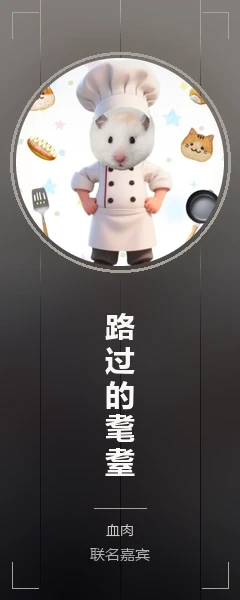
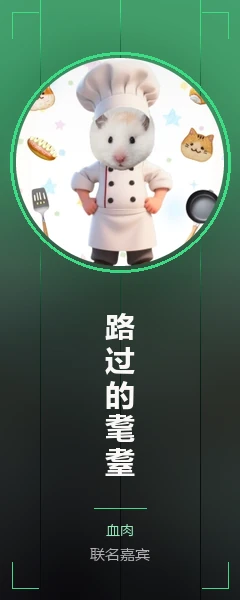
feat(idle): 路过的耄耋按「安卓佬」重做技能组与档案
外号比本名响：B 站老观众管他叫安卓佬，主题色、头像 emoji、技能与简介都跟着换。

- 主色 #a9a29a 灰 → 安卓绿 #3ddc84，emoji 🚶 → 🤖；立绘名片重出（绿环 + 绿色调）
- 7 槽技能全部换成维修梗，数值与原来一一对应（平衡不变）：
  拐杖敲→一键清后台（降攻）、挡在路口→移动电源（护垒）、
  让让，路过→推送更新包（全队屏障）、我什么都没看见→强制更新（降攻 + 虚弱）、
  老骨头→刷机保平安（全队防）、散散步→系统重装（全队盾 + 反击）、耄耋之年→永不断电
- 档案写明「安卓佬」这个称呼与他的维修哲学：能刷机就别修，能重启就别拆
- 素材脚本 CAST 配色同步；DESIGN 角色表 / README 同步

diff --git a/idle/src/core/creators.js b/idle/src/core/creators.js
@@ -132,9 +132,9 @@ export const CREATORS = [
     base: { CON: 42, ATK: 27, DEF: 41 }, scale: { CON: 1.8, ATK: 1.3, DEF: 1.95 }, sub: { ...SUB }, subScale: { ...SUB_SCALE },
     portrait: portraitOf('maodie'), card: cardOf('maodie'),
     creator: {
-      uid: '1475217387', url: 'https://space.bilibili.com/1475217387', color: '#a9a29a', tag: CREATOR_TAG, emoji: '🚶',
-      bio: '说是路过，其实每场团战都站在最前面。挨完全部伤害之后摆摆手：我什么都没看见。',
-      hook: '让让，路过 · 耄耋之年',
+      uid: '1475217387', url: 'https://space.bilibili.com/1475217387', color: '#3ddc84', tag: CREATOR_TAG, emoji: '🤖',
+      bio: 'B 站老观众管他叫「安卓佬」：手机卡了、烫了、掉电快了，第一反应都是先来问他。维修哲学只有一句——能刷机就别修，能重启就别拆。至于团战为什么总站在最前面，他说站后面看不清屏幕。',
+      hook: '安卓佬 · 移动电源',
     },
   },
 ];
@@ -238,15 +238,15 @@ export const CREATOR_KITS = {
     OverExalt: ['星海黎明', (lv) => [D(1.5, lv, { to: 'foes', hits: 2 }), E.buff('amp', 25, 3, 'allies')]],
   }),
 
-  // 路过的耄耋：挡在路口 —— 最硬的盾，屏障 + 嘲讽式降攻
+  // 路过的耄耋 = 安卓佬：清后台、背充电宝、随时系统重装 —— 最硬的盾，主题是「电从来不断」
   maodie: kit({
-    Strike: ['拐杖敲', (lv) => [D(0.85, lv), E.debuff('atk', 10, 2)]],
-    Defense: ['挡在路口', (lv) => [S(1.6, lv), E.status('fortress', 15, 3, 'self')]],
-    Skill1: ['让让，路过', (lv) => [S(1.1, lv, 'allies'), E.status('barrier', 1, 3, 'allies')]],
-    Skill2: ['我什么都没看见', () => [E.debuff('atk', 25, 2, 'foes'), E.status('weakness', 1, 2, 'foes')]],
-    Rouse: ['老骨头', () => [E.buff('def', 25, 3, 'allies'), E.gauge('keyflare', 20)]],
-    Exalt: ['散散步', (lv) => [S(1.8, lv, 'allies'), D(1.0, lv, { to: 'foes' }), E.status('counter', 2, 3, 'allies')]],
-    OverExalt: ['耄耋之年', (lv) => [S(2.4, lv, 'allies'), H(1.0, lv, 'allies'), E.debuff('atk', 22, 2, 'foes')]],
+    Strike: ['一键清后台', (lv) => [D(0.85, lv), E.debuff('atk', 10, 2)]],
+    Defense: ['移动电源', (lv) => [S(1.6, lv), E.status('fortress', 15, 3, 'self')]],
+    Skill1: ['推送更新包', (lv) => [S(1.1, lv, 'allies'), E.status('barrier', 1, 3, 'allies')]],
+    Skill2: ['强制更新', () => [E.debuff('atk', 25, 2, 'foes'), E.status('weakness', 1, 2, 'foes')]],
+    Rouse: ['刷机保平安', () => [E.buff('def', 25, 3, 'allies'), E.gauge('keyflare', 20)]],
+    Exalt: ['系统重装', (lv) => [S(1.8, lv, 'allies'), D(1.0, lv, { to: 'foes' }), E.status('counter', 2, 3, 'allies')]],
+    OverExalt: ['永不断电', (lv) => [S(2.4, lv, 'allies'), H(1.0, lv, 'allies'), E.debuff('atk', 22, 2, 'foes')]],
   }),
 };
 

diff --git a/idle/tools/build_creators.py b/idle/tools/build_creators.py
@@ -40,7 +40,7 @@ CAST = [
     ('zerok',    '立誓0氪',    '零', (201, 180, 88),  (156, 196, 160), '血肉'),
     ('xiamolin', '夏茉琳',     '茉', (142, 201, 164), (214, 232, 196), '深海'),
     ('chaoxing', '朝星',       '星', (143, 168, 255), (226, 232, 255), '超维'),
-    ('maodie',   '路过的耄耋', '耄', (169, 162, 154), (214, 206, 196), '血肉'),
+    ('maodie',   '路过的耄耋', '耄', (61, 220, 132),  (176, 244, 208), '血肉'),
 ]
 
 

diff --git a/idle/README.md b/idle/README.md
@@ -46,7 +46,7 @@
 - **唤醒体排序（M14）**：唤醒体页可按稀有度 / 战力 / 等级 / 叠位数 / 获取顺序 / 界域排序，再点一次当前排序键就反向（↓ / ↑ 写在按钮上）。未获得的一律排在后面，配合「仅已拥有」可以只看手里有的。卡面直接给出等级、叠位、类型与单人战力。
 - **融灾禁区（M15）**：挑战页新增的终盘玩法，**一层要同时派五个队伍**——一队~五队在队伍页提前编好（只有 5 套，每套 4 人），分别对上这一层的第 1~5 组敌人，第 5 组是精英 / Boss。**5 场胜 4 场即通过**（留一队的余量，免得怪物组合的运气压过队伍强度），每层满状态、不继承血量，一次挑战最多连爬 10 层。塔高 **100 层**，每 10 层一个里程碑、每 25 层有校猫奖励战（钥令 + 券 + 银芯），打穿 100 层额外给 40 券与 600 银芯。**每两周换一期**：敌人按新种子重排、层数从头爬、每层奖励重发，历史最高层永久保留；每期新开时界面与回归里都能验证（周期按 UTC 天数整除 14 天，第 1 期从 2026-01-05 起算）。挑战过程同样走战斗回放，只回放「决定这一层」的那一场（失败的那队，或全胜时的第五队）。
 - **挂机层默认取有收益的最高层（M16）**：收益 = 胜率 × 单场收益，胜率 0 的关就是零收益。可 `state.stage` 一直跟着「正在打的那一关」走，攻坚时挂机也跟着去——一旦这一关（或 `maxStage` 自己）打不过（侥幸首通、换过队伍、叠位被清、造物被卸），在线空转，**离线结算也一直是 0**。现在统一由 `farmableStage` 判定：从想打的关往下扫（每关试 2 场、最多 60 关），**第一个打得过的层就是这个账号真正该挂的层**，结果按队伍 / 养成 / 装备的签名缓存。离线结算按这一层算，领完收益顺手把挂机层切过去；自动挂机在前线失手、或在已通关的关上连输 3 场，也会退到这一层。战斗页当前关胜率 0 时标黄并给一颗「退回第 N 关挂机」的按钮，离线弹窗会说明「已按有收益的最高层结算」。手动挂机不参与自动退层（关卡是玩家自己选的）。同一版把游戏名从《忘却之夜·挂机录》改成《挂机前夜》。
-- **联名嘉宾与「星辉直播间」（M17）**：把《忘却前夜》社区里 9 位主播——萨摩不耶、梦依流苏、爱丽丝、鼠王、魔龙_D、立誓0氪、夏茉琳、朝星、路过的耄耋——做成彩蛋唤醒体，**不进召唤池**，只从签到与活动拿：**累计签到 3 / 7 / 15 天**各送一位（跨月累计，老存档进游戏自动补发），其余 6 位在「更多 → 联动」的「星辉直播间」里用人气档位解锁。人气来自每日任务（在线战斗 20 场 +30 / 胜利 15 场 +30 / 首次通关 2 关 +40，UTC 日重置，**离线场次不算**）、推图里程碑（最高通关每 10 关 +10，最高 100 关）和签到（每次 +5），档位 60 / 140 / 240 / 360 / 520 / 700。技能一律按昵称意象手写（雪橇犬护盾、丝线织梦、兔子洞多段、鼠群瘟疫、龙息群伤、零氪回能、茉莉奶妈、星轨暴击、遛弯老人扛伤），数值压在史诗之下、初始四人之上，四界域 × 三类型都有人，凑得出同域加成。数据在 `src/core/creators.js`，活动在 `src/core/event.js`，头像立绘由 `tools/build_creators.py --face-dir=tools/faces` 生成——用的是主播本人的 B 站公开头像（原图与来源记录都在 `tools/faces/`），立绘做成「圆形头像 + 竖排名字」的嘉宾名片；要换图直接覆盖 `tools/faces/<slug>.jpg` 或用 `--portrait/--card` 指路径。每位主播的详情页「档案」里都有一行 **B 站首页**直达链接（`https://space.bilibili.com/<uid>`），联动页嘉宾卡上也各有一枚同样的按钮。萨摩不耶另有专属**特性**「一哥」（社区都这么叫他）：对上奖励首领「校猫」时伤害 +50%，靠角色数据里的 `trait.vs` 表驱动，见 DESIGN §20.2。
+- **联名嘉宾与「星辉直播间」（M17）**：把《忘却前夜》社区里 9 位主播——萨摩不耶、梦依流苏、爱丽丝、鼠王、魔龙_D、立誓0氪、夏茉琳、朝星、路过的耄耋——做成彩蛋唤醒体，**不进召唤池**，只从签到与活动拿：**累计签到 3 / 7 / 15 天**各送一位（跨月累计，老存档进游戏自动补发），其余 6 位在「更多 → 联动」的「星辉直播间」里用人气档位解锁。人气来自每日任务（在线战斗 20 场 +30 / 胜利 15 场 +30 / 首次通关 2 关 +40，UTC 日重置，**离线场次不算**）、推图里程碑（最高通关每 10 关 +10，最高 100 关）和签到（每次 +5），档位 60 / 140 / 240 / 360 / 520 / 700。技能一律按昵称意象手写（雪橇犬护盾、丝线织梦、兔子洞多段、鼠群瘟疫、龙息群伤、零氪回能、茉莉奶妈、星轨暴击、安卓佬清后台），数值压在史诗之下、初始四人之上，四界域 × 三类型都有人，凑得出同域加成。数据在 `src/core/creators.js`，活动在 `src/core/event.js`，头像立绘由 `tools/build_creators.py --face-dir=tools/faces` 生成——用的是主播本人的 B 站公开头像（原图与来源记录都在 `tools/faces/`），立绘做成「圆形头像 + 竖排名字」的嘉宾名片；要换图直接覆盖 `tools/faces/<slug>.jpg` 或用 `--portrait/--card` 指路径。每位主播的详情页「档案」里都有一行 **B 站首页**直达链接（`https://space.bilibili.com/<uid>`），联动页嘉宾卡上也各有一枚同样的按钮。萨摩不耶另有专属**特性**「一哥」（社区都这么叫他）：对上奖励首领「校猫」时伤害 +50%，靠角色数据里的 `trait.vs` 表驱动，见 DESIGN §20.2。
 - **挑战**：无限塔（每日 3 次，生命继承）、融灾试炼（第 71/72 期的真实区域首领，C 到 SSS 六档威胁）、25 个成就、新手引导、伤害 / 治疗统计。
 
 ## 运行

diff --git a/idle/docs/DESIGN.md b/idle/docs/DESIGN.md
@@ -337,7 +337,7 @@ farmableStage(state, data, from) // 从 from 往下扫，每关最多试 FARM_PR
 | 立誓0氪 | 血肉 / 合唱 | 零氪：攒、算、不花 | 攒着不花（回能）、不氪也能赢、0 元通关 |
 | 夏茉琳 | 深海 / 合唱 | 茉莉、夏夜、茶 | 一盏茉莉（单奶）、满庭芳、盛夏长明 |
 | 朝星 | 超维 / 突击 | 晨星、破晓、星轨 | 星光坠落、破晓（全队暴击）、星海黎明 |
-| 路过的耄耋 | 血肉 / 守护 | 遛弯的老人：挡路、装看不见 | 挡在路口（护垒）、让让，路过（全队屏障）、耄耋之年 |
+| 路过的耄耋 | 血肉 / 守护 | 外号「安卓佬」：清后台、移动电源、系统重装（B 站老观众叫法，比本名响） | 一键清后台（降攻）、移动电源（护垒）、系统重装（全队盾 + 反击）、永不断电 |
 
 成长用与 `skills.js` 相同的 `GROWTH(level) = 0.98 + 0.03 × level`，所以技能等级 Lv.1–5 的成长曲线和官方角色一致。四界域 × 三类型都有人，组 4 人队能吃到同域加成。
 
